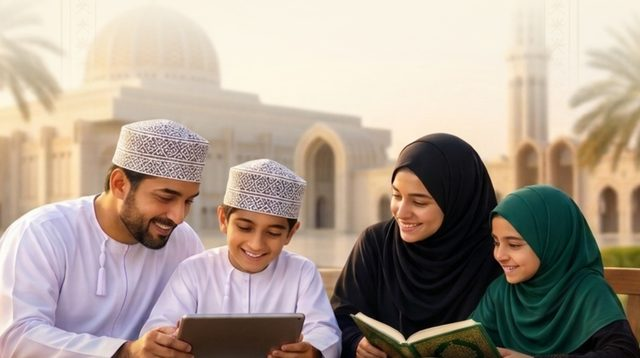
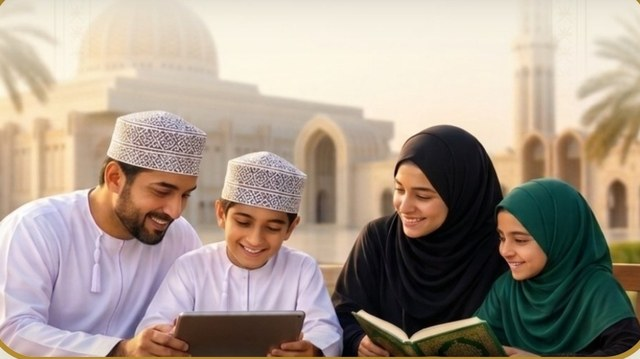
Add files via upload

diff --git a/index.html b/index.html
@@ -170,7 +170,7 @@ header::after{content:"";position:absolute;inset:auto 0 0;height:3px;background:
 /* تعلّم من بيتك */
 .scenes{display:grid;grid-template-columns:repeat(3,minmax(0,1fr));gap:22px;margin-top:40px}
 .scene{margin:0;background:var(--paper);border:1px solid var(--line);border-radius:22px;overflow:hidden}
-.scene img{display:block;width:100%;height:auto;aspect-ratio:4/3;border-bottom:3px solid var(--gold)}
+.scene img{display:block;width:100%;height:auto;aspect-ratio:4/3;object-fit:cover;border-bottom:3px solid var(--gold)}
 .scene figcaption{padding:18px 22px 22px}
 .scene h3{color:var(--green2)}
 :root[data-theme=dark] .scene h3{color:var(--goldl)}
@@ -434,19 +434,19 @@ footer .slogan{font-family:var(--f-display);font-weight:700;color:var(--goldl);f
       <p class="lead">حصصٌ فرديةٌ عن بُعد عبر الهاتف أو الحاسوب، تناسب أفراد الأسرة جميعًا.</p>
     </div>
     <figure class="family">
-      <img src="assets/photos/family.jpg" srcset="assets/photos/family-640.jpg 640w, assets/photos/family.jpg 928w" sizes="(max-width:1040px) 92vw, 1000px" width="928" height="520" loading="lazy" alt="أسرة عُمانية تتعلّم القرآن معًا عبر جهاز لوحي ومصحف، وفي الخلفية مسجد">
+      <img src="assets/photos/family.jpg?v=3" srcset="assets/photos/family-640.jpg?v=3 640w, assets/photos/family.jpg?v=3 928w" sizes="(max-width:1040px) 92vw, 1000px" width="928" height="520" loading="lazy" alt="أسرة عُمانية تتعلّم القرآن معًا عبر جهاز لوحي ومصحف، وفي الخلفية مسجد">
     </figure>
     <div class="scenes">
       <figure class="scene">
-        <img src="assets/scene-men.svg?v=2" width="400" height="300" loading="lazy" alt="طالب بالدشداشة والكمة يقرأ في المصحف أمام حاسوب في حصة عن بُعد">
+        <img src="assets/photos/learn-men.jpg?v=3" srcset="assets/photos/learn-men-640.jpg?v=3 640w, assets/photos/learn-men.jpg?v=3 1200w" sizes="(max-width:900px) 92vw, 400px" width="1200" height="900" loading="lazy" decoding="async" alt="طالب عُماني بالدشداشة والمصر يتابع حصة القرآن عن بُعد على حاسوبه ومعه المصحف">
         <figcaption><h3>للرجال</h3><p>تلاوةٌ وتجويدٌ وحفظ، في الوقت الذي يناسب عملك ويومك.</p></figcaption>
       </figure>
       <figure class="scene">
-        <img src="assets/scene-women.svg?v=2" width="400" height="300" loading="lazy" alt="طالبة بحجاب تتابع حصة القرآن عن بُعد على جهاز لوحي ومعها مصحف">
+        <img src="assets/photos/learn-women.jpg?v=3" srcset="assets/photos/learn-women-640.jpg?v=3 640w, assets/photos/learn-women.jpg?v=3 1200w" sizes="(max-width:900px) 92vw, 400px" width="1200" height="900" loading="lazy" decoding="async" alt="طالبة محتشمة تتابع حصة القرآن عن بُعد مع معلّمة على الحاسوب وأمامها المصحف">
         <figcaption><h3>للنساء</h3><p>خصوصيةٌ تامة، ودراسةٌ مريحةٌ من البيت دون عناء التنقّل.</p></figcaption>
       </figure>
       <figure class="scene">
-        <img src="assets/scene-kids.svg?v=2" width="400" height="300" loading="lazy" alt="طفل وطفلة يتعلّمان الحروف العربية عن بُعد على جهاز لوحي">
+        <img src="assets/photos/learn-kids.jpg?v=3" srcset="assets/photos/learn-kids-640.jpg?v=3 640w, assets/photos/learn-kids.jpg?v=3 1200w" sizes="(max-width:900px) 92vw, 400px" width="1200" height="900" loading="lazy" decoding="async" alt="طفل عُماني يتعلّم القرآن مع معلّمه عن بُعد على الحاسوب">
         <figcaption><h3>للأطفال</h3><p>أسلوبٌ محبَّبٌ يناسب أعمارهم، يبدأ بالحروف وينتهي بإتقان التلاوة.</p></figcaption>
       </figure>
     </div>
